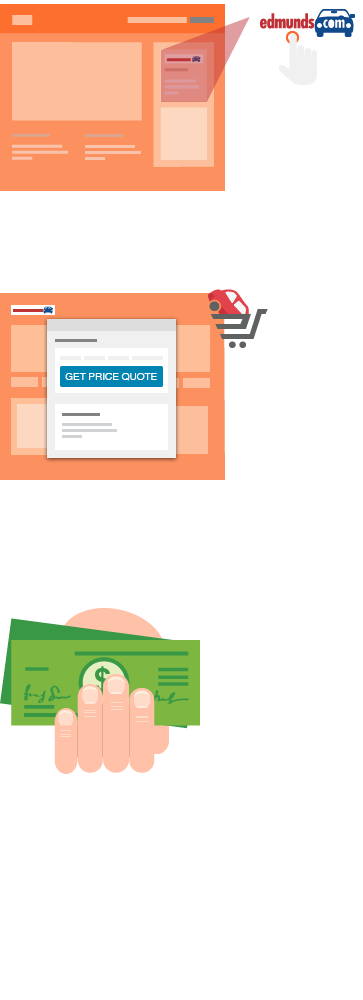
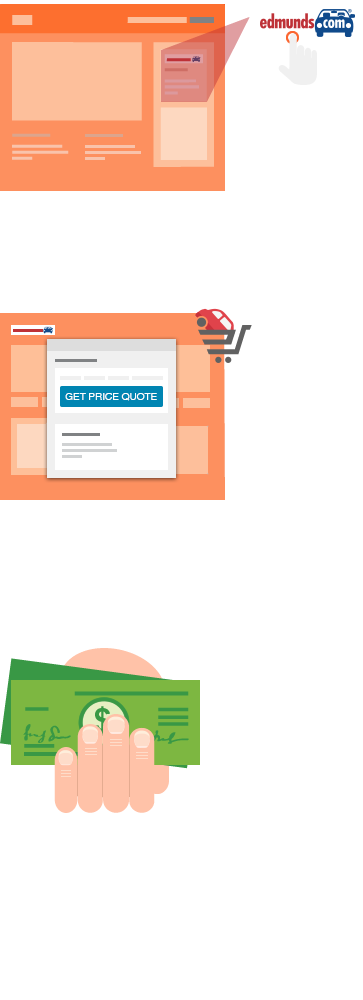
fix some styles on Affiliate Network

diff --git a/assets/themes/twitter/css/style.less b/assets/themes/twitter/css/style.less
@@ -4726,11 +4726,14 @@ a.blueLink {
       background-color: #dedede;
       background-image: url('../img/notification-icon.png');
       background-repeat: no-repeat;
-      background-position: 25px 20px;   
-      padding: 18px 20px 2px 85px;
-      font-size: 14px;
+      background-position: 25px 25px;   
+      padding: 25px 25px 25px 78px;
+      font-size: 15px;
       line-height: 23px;
       margin-bottom: 70px;
+      p {
+        margin-bottom: 0;
+      }
     }
     .affiliate-steps-panel {
       background-color: #FC6431;
@@ -4798,14 +4801,14 @@ a.blueLink {
           }          
           &.step2 {
             .step-image {
-              background-position: 0 -288px;
+              background-position: 0 -308px;
             }
             .dots-image {
               right: -125px;
             }
           } 
           &.step3 .step-image {
-            background-position: 0 -581px;
+            background-position: 0 -621px;
             margin-left: -52px;
           }   
         }
@@ -4838,7 +4841,7 @@ a.blueLink {
         width: 220px;
         float: left;
         &:not(:last-child) {
-          margin-right: 15px;
+          margin-right: 20px;
         }
         ul>li {
           list-style-type: disc;
@@ -4888,7 +4891,7 @@ a.blueLink {
       }
     }
     &.non-fixed {
-      margin-top: 400px;
+      margin-top: 411px;
       .header-wrap {
         position: relative;
       }

diff --git a/_includes/themes/twitter/api_affiliate_network.html b/_includes/themes/twitter/api_affiliate_network.html
@@ -106,7 +106,7 @@
 	            <td style="width: 375px; background-color: #f9f9f9; padding:20px;border-right: 1px solid #dedede;border-bottom: 2px solid #dedede;">
 	                <h3 style="color: #ff6600;">SIGN UP TODAY</h3>
 	                <p>Join the Edmunds API Affiliate Network through our trusted third-party affiliate tracking partner, <em>Commission Junction</em>.Please fill out the form below to let us know you're interested in joining the Edmunds API Affiliate Network. A member of our team will contact you <strong>within 2 business days</strong> to give you more details and answer any questions you may have.</p>
-	                <p><a id="formAnchor268262605" name="form268262605"></a></p>
+	                <p><a id="formAnchor268262605" name="form268262605">&nbsp;</a></p>
 	                <script src="http://fs16.formsite.com/include/form/embedManager.js?268262605" type="text/javascript">
 					</script>
 					<script type="text/javascript" src="{{ PATH }}/assets/themes/twitter/js/script-affiliate.js">
